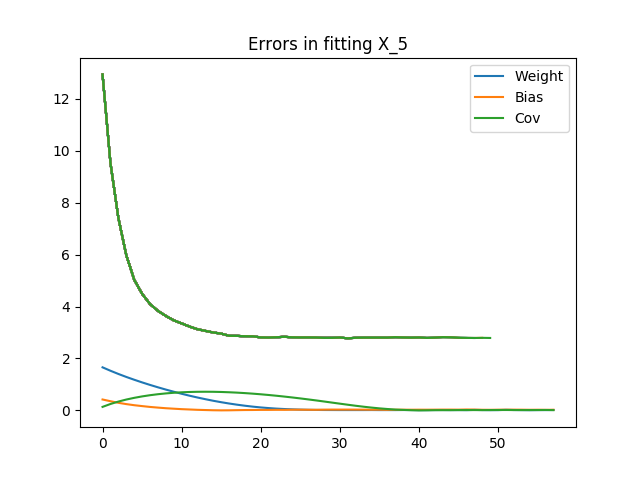
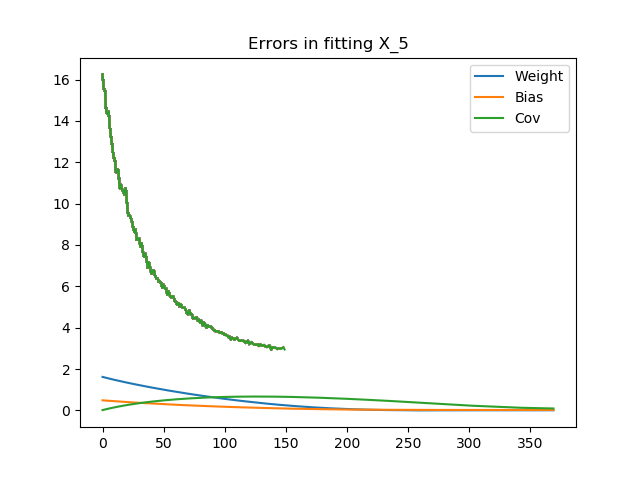
Basic jumpy generative & hybrid model setup; VI still broken

diff --git a/experiments.py b/experiments.py
@@ -4,12 +4,13 @@ import matplotlib.pyplot as plt
 import numpy as np
 import pandas as pd
 
-from simple_markov_chain import SimpleMarkovChain
+from bayes_net import BayesNet
+from conditionals import GaussianCPD, LinearGaussianCPD
 from discriminative_markov_chain import DiscriminativeMarkovChain
+from distributions import GaussianDistribution
 from fitting_experiments import compute_joint_linear
 from fitting import fit_MLE, fit_VI
-from conditionals import GaussianCPD
-from distributions import GaussianDistribution
+from simple_markov_chain import SimpleMarkovChain
 
 def infer_from_posterior(mc, query_node, evidence_node, evidences):
     return mc.get_node(query_node).cpd.cond_fn([evidences])
@@ -37,14 +38,21 @@ def get_inference_results(mc, num_samples=10000):
 
     print("Data:", data)
 
-    # Set up logging
-    log_fn, plot_results = make_linear_log_fn(mc)
-
     # Generative
     fitted_mc = SimpleMarkovChain(mc.num_nodes)
     fitted_mc.initialize_empty_cpds()
+    log_fn, plot_results = make_linear_log_fn(mc)
     fit_MLE(data, fitted_mc, log_fn=log_fn)
     plot_results(f"{num_samples}-linear-fit")
+
+    # Jumpy generative (every other node)
+    jumpy = SimpleMarkovChain(mc.num_nodes, step=2)
+    jumpy.initialize_empty_cpds()
+    fit_MLE(data, jumpy, log_fn=log_fn)
+
+    full_jump = SimpleMarkovChain(mc.num_nodes, step=mc.num_nodes-1)
+    full_jump.initialize_empty_cpds()
+    fit_MLE(data, full_jump, log_fn=log_fn)
 
     # Discriminative
     p_hat = DiscriminativeMarkovChain(mc.num_nodes)
@@ -56,7 +64,7 @@ def get_inference_results(mc, num_samples=10000):
     q.initialize_empty_cpds()
     fit_VI(data, mc, q, batch_size=min(32, num_samples // 5))
 
-    return fitted_mc, p_hat, q
+    return fitted_mc, jumpy, full_jump, p_hat, q
 
 def make_linear_log_fn(true_mc):
     a_errs, b_errs, cov_errs = {}, {}, {}
@@ -94,7 +102,7 @@ def get_coeffs_from_generative(mc, query, evidence):
 
 
         
-def test_finite_samples(sample_amounts=[5000]):
+def test_finite_samples(sample_amounts=[500]):
     # true_mc = SimpleMarkovChain(5)
     # true_mc.specify_polynomial_cpds((0, 1), [(1.2, 0.3), (0.4, 2), (2.3, -1.2), (1.5, 0.6)], [0.5, 1.5, 0.8, 2.3])
 
@@ -103,10 +111,16 @@ def test_finite_samples(sample_amounts=[5000]):
     true_mc = SimpleMarkovChain(length)
     true_mc.specify_polynomial_cpds((0, 1), [(1, 0), (1, 0), (1, 0), (1, 0)], [1, 1, 1, 1])
 
+    # length = 2
+    # true_mc = SimpleMarkovChain(length)
+    # true_mc.specify_polynomial_cpds((0, 1), [(1, 0)], [4])
+
     true_weight, true_bias, true_cov = get_coeffs_from_generative(true_mc, "X_1", f"X_{length}")
     print(f"True posterior: X_1|X_{length} ~ N({true_weight} * X_{length} + {true_bias}, {true_cov})")
 
     gen_results = []
+    jumpy_results = []
+    full_jump_results = []
     disc_results = []
     vi_results = []
 
@@ -114,9 +128,11 @@ def test_finite_samples(sample_amounts=[5000]):
         print(f"Trying sample size: {num_samples}")
 
         # Get p_hat using discriminative, q using VI
-        p_hat, disc_posterior, vi_posterior = get_inference_results(true_mc, num_samples)
+        p_hat, jumpy, full_jump, disc_posterior, vi_posterior = get_inference_results(true_mc, num_samples)
 
         gen_kl = expected_kl_gaussian(true_mc, p_hat, "X_1", f"X_{length}", posterior_func=infer_from_generative)
+        # jumpy_kl = expected_kl_gaussian(true_mc, jumpy, "X_1", f"X_{length}", posterior_func=infer_from_generative)
+        # full_jump_kl = expected_kl_gaussian(true_mc, full_jump, "X_1", f"X_{length}", posterior_func=infer_from_generative)
         disc_kl = expected_kl_gaussian(true_mc, disc_posterior, "X_1", f"X_{length}")
         vi_kl = expected_kl_gaussian(true_mc, vi_posterior, "X_1", f"X_{length}")
 
@@ -124,20 +140,24 @@ def test_finite_samples(sample_amounts=[5000]):
         vif = vi_posterior.get_node("X_1").cpd.cond_fn
 
         gen_weight, gen_bias, gen_cov = get_coeffs_from_generative(p_hat, "X_1", f"X_{length}")
+        # # jumpy_weight, jumpy_bias, jumpy_cov = get_coeffs_from_generative(jumpy, "X_1", f"X_{length}")
+        # # full_jump_weight, full_jump_bias, full_jump_cov = get_coeffs_from_generative(full_jump, "X_1", f"X_{length}")
         true_weight, true_bias, true_cov = get_coeffs_from_generative(true_mc, "X_1", f"X_{length}")
 
         print(f"True posterior: X_1|X_{length} ~ N({true_weight} * X_{length} + {true_bias}, {true_cov})\n============")
         print(f'Gen posterior: N({gen_weight} * X_{length} + {gen_bias}, {gen_cov})')
+        # # print(f'Jumpy posterior: N({jumpy_weight} * X_{length} + {jumpy_bias}, {jumpy_cov})')
+        # # print(f'Full jump posterior: N({full_jump_weight} * X_{length} + {full_jump_bias}, {full_jump_cov})')
         print(f"Disc posterior: N({dif.weights[0].weight.item()} * X_{length} + {dif.weights[0].bias.item()}, {dif.cov_matrix().item()})")
         print(f"VI posterior: N({vif.weights[0].weight.item()} * X_{length} + {vif.weights[0].bias.item()}, {vif.cov_matrix().item()})")
 
-        print(f'p_hat: {p_hat.get_node("X_2").cpd.cond_fn.weights[0].weight} * X_1 + {p_hat.get_node("X_2").cpd.cond_fn.weights[0].bias}; {p_hat.get_node("X_2").cpd.cond_fn.cov_matrix()}')
-
         gen_results.append(gen_kl)
-        print("GEN KL:", gen_kl)
+        # # jumpy_results.append(jumpy_kl)
+        # # full_jump_results.append(full_jump_kl)
         disc_results.append(disc_kl)
         vi_results.append(vi_kl)
 
+    # df = pd.DataFrame(np.c_[gen_results, jumpy_results, full_jump_results, disc_results, vi_results], columns=["Generative", "Jumpy (step=2)", "Full jump", "Discriminative", "VI"], index=sample_amounts)
     df = pd.DataFrame(np.c_[gen_results, disc_results, vi_results], columns=["Generative", "Discriminative", "VI"], index=sample_amounts)
     df.plot.bar(rot=0)
     plt.title("Inference of P(X1 | X5)")

diff --git a/fitting.py b/fitting.py
@@ -116,7 +116,7 @@ class NeuralNetGaussianConditionalFn(GaussianConditionalFn):
         cov = self.cov_matrix()
         return GaussianDistribution(mean, cov)
 
-def learn_gaussian_conditional_fn(cond_fn_approx, evidence, data, batch_size=32, eps=1e-3, recent_epochs=20, max_epochs=100, verbose=True, log_fn=None):
+def learn_gaussian_conditional_fn(cond_fn_approx, evidence, data, batch_size=32, eps=5e-4, recent_epochs=20, max_epochs=100, verbose=True, log_fn=None):
     """
     Given evidence and data, uses MLE to learn the optimal parameters for cond_fn, 
      which maps evidence values to a GaussianDistribution object (with a mean and covariance). 
@@ -140,8 +140,8 @@ def learn_gaussian_conditional_fn(cond_fn_approx, evidence, data, batch_size=32,
 
     recent_losses = []
 
-    # max_epochs = int(3e5 // len(data))
-    max_epochs = 100
+    max_epochs = int(3e5 // len(data))
+    # max_epochs = 100
 
     for epoch in range(max_epochs):
         total_loss = 0
@@ -211,6 +211,7 @@ def fit_MLE(data, p_hat, batch_size=32, log_fn=None):
             with some already specified factors and only fit the rest.
     """
     for node in p_hat.all_nodes():
+        print(f"Learning {node.name}")
         if node.cpd.is_learnable:
             evidence = [data[parent] for parent in node.parents]
             node.cpd.fit_to_data(evidence, data[node.name], batch_size=batch_size, log_fn=make_log_fn_with_node_name(node.name, log_fn)) if evidence \
@@ -250,7 +251,7 @@ def fit_VI(data, mc, variational_mc, batch_size=32, plot_name="vi_loss"):
 
     # Setting up pytorch iteration
     batch_size = 32
-    num_epochs = 50
+    num_epochs = 150
 
     # Iterable that gives data from training set in batches with shuffling
     evidence_data = data[f"X_{end_idx}"]
@@ -263,11 +264,17 @@ def fit_VI(data, mc, variational_mc, batch_size=32, plot_name="vi_loss"):
             params += list(node.cpd.learnable_params())
     optimizer = optim.Adam(params)
 
+    # variational_mc.get_node("X_1").cpd.cond_fn.weights[0].weight = torch.nn.Parameter(torch.tensor([[0.2]]), requires_grad=False)
+    # variational_mc.get_node("X_1").cpd.cond_fn.weights[0].bias = torch.nn.Parameter(torch.tensor([0.]), requires_grad=False)
+    # variational_mc.get_node("X_1").cpd.cond_fn.cov = torch.nn.Parameter(torch.tensor(0.8), requires_grad=False)
+
     print("Begin training loop")
     train_losses = []
     # Pytorch training loop
     for epoch in range(num_epochs):
         total_loss = 0
+
+        # print("X_1|X_5 cov:", variational_mc.get_node("X_1").cpd.cond_fn.cov_matrix())
 
         for i, d in enumerate(trainloader):
             optimizer.zero_grad()

diff --git a/fitting_experiments.py b/fitting_experiments.py
@@ -190,10 +190,28 @@ def compute_joint_linear(mc, query_node, evidence_node, evidence=1):
 
     cross_cov = front_multiplier * query_cov
 
+    print(f"Exact inference on {query_node}|{evidence_node}={evidence}")
+    print(f"All coeffs: {[all_coeffs[i][0] for i in range(start+1, end)]}")
+    print(f"query_idx: {query_idx}, ev_idx: {evidence_idx}")
+    print(f"means: {means}")
+    print(f"covs: {covs}")
+    print(f"query_mean: {query_mean}")
+    print(f"query_cov: {query_cov}")
+    print(f"front_multiplier: {front_multiplier}")
+    print(f"cross_cov: {cross_cov}")
+    print(f"evidence_mean: {evidence_mean}")
+    print(f"evidence_cov: {evidence_cov}")
+
     # Conditioning: Conditioning on the evidence to get the query distribution
     # Currently works both ways because it is a scalar
-    cond_mean = query_mean + cross_cov*(1./evidence_cov)*(evidence[evidence_node] - evidence_mean)
-    cond_cov = query_cov - cross_cov * (1. / evidence_cov) * cross_cov
+    if query_idx < evidence_idx:
+        cond_mean = query_mean + cross_cov*(1./evidence_cov)*(evidence[evidence_node] - evidence_mean)
+        cond_cov = query_cov - cross_cov * (1. / evidence_cov) * cross_cov
+    else:
+        cond_mean = query_mean
+        cond_cov = query_cov
+
+    print(f"cond_mean, cond_cov: {cond_mean}, {cond_cov}")
 
     # print(all_coeffs)
     # print(all_cov)
@@ -203,6 +221,7 @@ def compute_joint_linear(mc, query_node, evidence_node, evidence=1):
     # print(f"Numerator: {cross_cov ** 2}, should be: {(c[0] * c[1] * c[2]) ** 2 * all_cov[0] ** 2}")
     # print(f"Denominator: {evidence_cov}, should be: {(c[0] * c[1] * c[2]) ** 2 * all_cov[0] + all_cov[3] + c[2]**2 * all_cov[2] + c[2]**2 * c[1]**2 * all_cov[1]}")
     # print(cond_cov)
+    print(f"cond_mean: {cond_mean}, cond_cov: {cond_cov}")
 
     return cond_mean, cond_cov
 

diff --git a/simple_markov_chain.py b/simple_markov_chain.py
@@ -16,8 +16,9 @@ class SimpleMarkovChain(BayesNet):
     (1) generate_cpds(): randomly generates parameters for linear CPDs
     (2) fit_cpds_to_data(): fits linear CPDs according to data sampled from the true joint
     """
-    def __init__(self, num_nodes):
-        super(SimpleMarkovChain, self).__init__(num_nodes)
+    def __init__(self, num_nodes, step=1):
+        self.node_names = [f"X_{i}" for i in range(1, num_nodes+1, step)]
+        super(SimpleMarkovChain, self).__init__(self.node_names)
     
     def generate_cpds(self, degree=1, coeff_range=[-5, 5], max_sd=2):
         vals, covs = [], []
@@ -69,13 +70,14 @@ class SimpleMarkovChain(BayesNet):
         return parameters
 
     def initialize_empty_cpds(self, reverse=False):
-        nums = range(1, self.num_nodes+1)
-        if reverse: nums = reversed(nums)
-        nums = list(nums)
+        names = self.node_names
+        if reverse: names = reversed(names)
 
-        self.set_prior(f"X_{nums[0]}", GaussianDistribution.empty())
-        for i in range(len(nums) - 1):
-            self.set_parents(f"X_{nums[i+1]}", [f"X_{nums[i]}"], LinearGaussianCPD.empty([1], 1))
+        self.set_prior(names[0], GaussianDistribution.empty())
+        for i in range(len(names) - 1):
+            self.set_parents(names[i+1], [names[i]], LinearGaussianCPD.empty([1], 1))
+
+        # TODO: connect last thing
             
         self.build()
 
